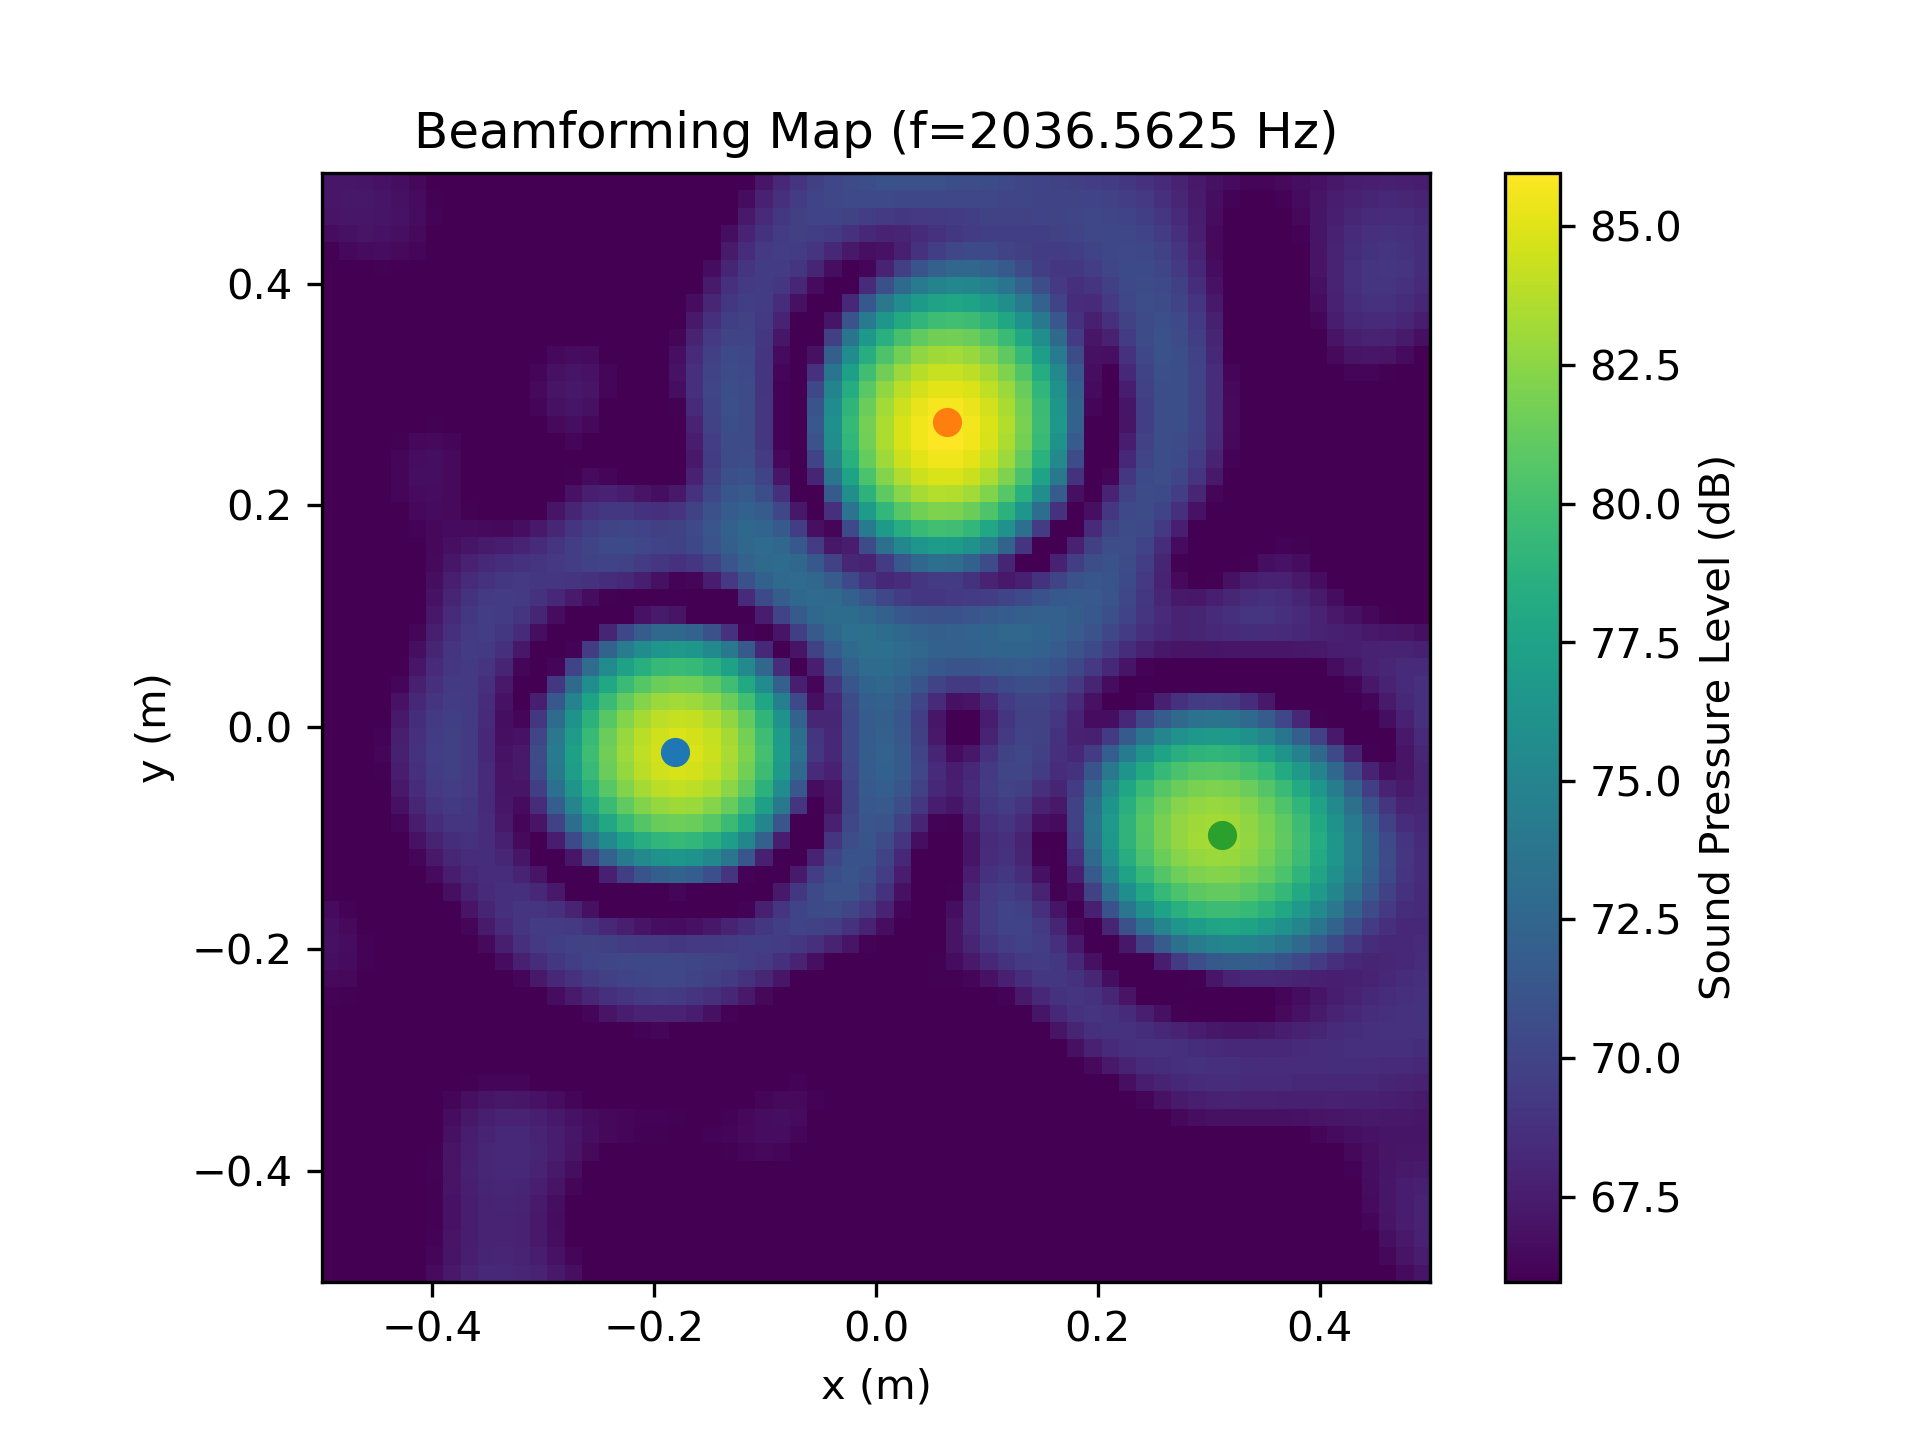
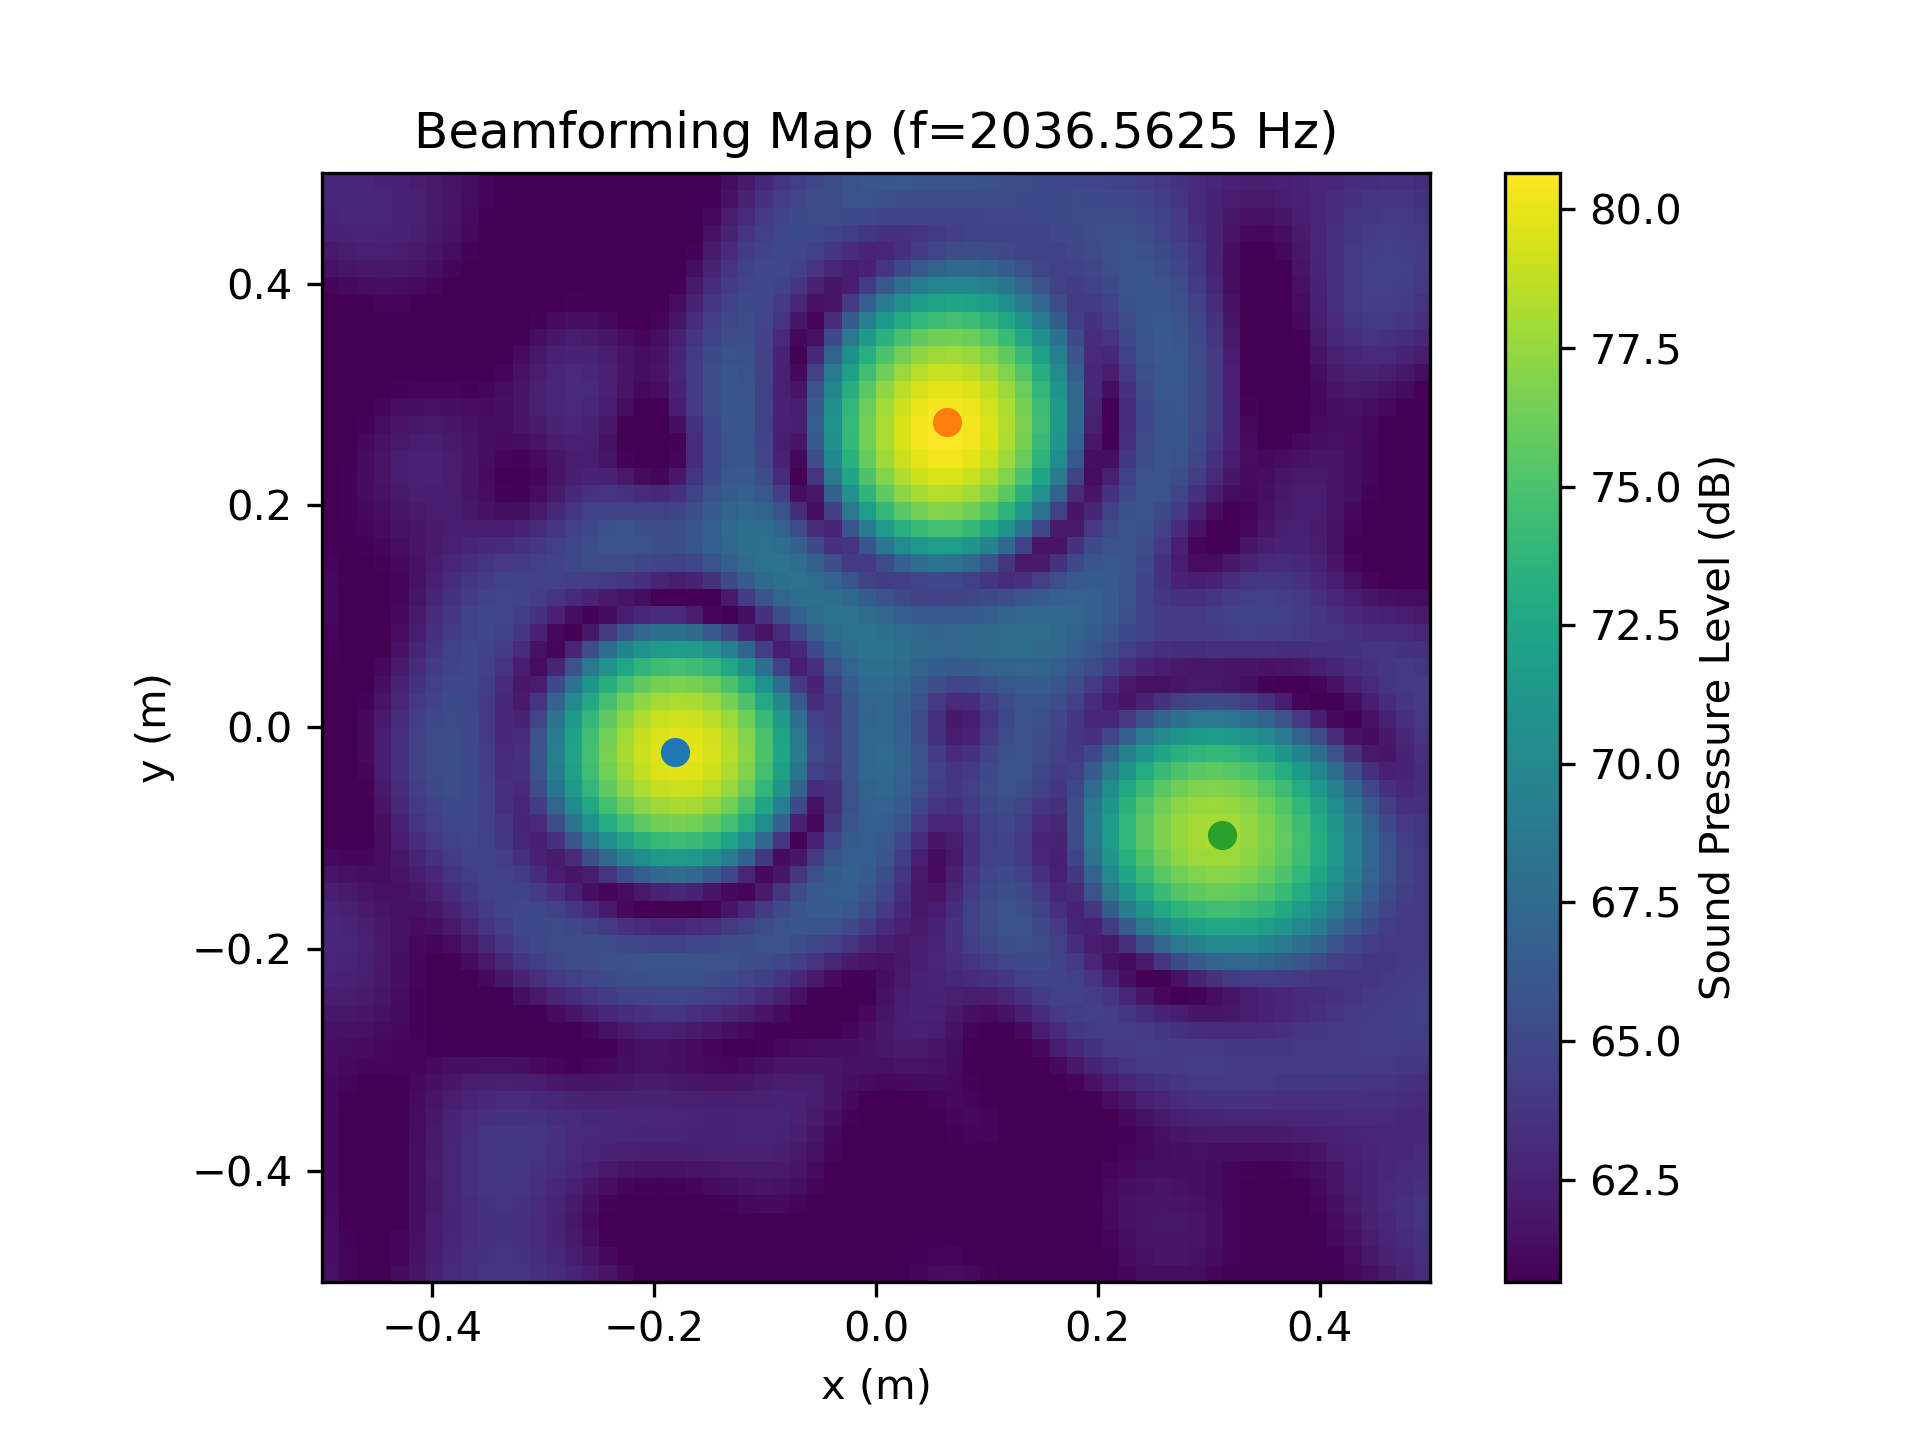
docs

diff --git a/src/acoupipe/datasets/synthetic.py b/src/acoupipe/datasets/synthetic.py
@@ -19,6 +19,7 @@ from functools import partial
 
 import acoular as ac
 import numpy as np
+import pyroomacoustics as pra
 from scipy.stats import norm, poisson
 from traits.api import Bool, Dict, Either, Enum, Float, Instance, Int, List, observe
 
@@ -957,6 +958,165 @@ class DatasetSyntheticFeatureCollectionBuilder(BaseFeatureCollectionBuilder):
                                             {"num" : "int64"})
 
 
+
+
+class DatasetSyntheticReverbConfig(DatasetSyntheticConfig):
+
+    # def create_sampler(self):
+    #     self.location_sampler = self.create_location_sampler()
+    #     self.signal_seed_sampler = self.create_signal_seed_sampler()
+    #     self.rms_sampler = self.create_rms_sampler()
+    #     self.nsources_sampler = self.create_nsources_sampler()
+    #     self.mic_noise_sampler = self.create_mic_noise_sampler()
+
+    # def get_sampler(self):
+    #     self.create_sampler()
+    #     sampler = {
+    #         2 : self.signal_seed_sampler,
+    #         3 : self.rms_sampler,
+    #         4 : self.location_sampler,
+    #         }
+
+    #     if self.max_nsources != self.min_nsources:
+    #         sampler[0] = self.nsources_sampler
+    #     if self.mic_sig_noise:
+    #         sampler[5] = self.mic_noise_sampler
+    #     return sampler
+
+    def create_sources(self):
+        sources = []
+        for signal in self.signals:
+            sources.append(
+                ac.PointSourceConvolve(
+                    signal=signal,
+                    mics=self.noisy_mics,
+                    env=self.env,
+                    )
+            )
+        return sources
+
+    @staticmethod
+    def get_rir(fs, locs, mics):
+        # The desired reverberation time and dimensions of the room
+
+        rt60 = .5  # seconds
+        room_dim = [7, 7, 3]  # meters
+        # We invert Sabine's formula to obtain the parameters for the ISM simulator
+        e_absorption, max_order = pra.inverse_sabine(rt60, room_dim)
+        # Create the room
+        room = pra.ShoeBox(
+            room_dim, fs=fs, materials=pra.Material(e_absorption), max_order=max_order,
+            use_rand_ism = False, max_rand_disp = 0.05
+        )
+        shift = np.array(room_dim)/2 # centering
+        for loc in locs.T:
+            room.add_source(loc+shift)
+        for mic in mics.T:
+            room.add_microphone(mic+shift)
+        room.compute_rir()
+        n = len(room.rir[0][0]) # length of the rir
+        rir_arr = np.zeros((locs.shape[1], mics.shape[1],n))
+        for j in range(locs.shape[1]):
+            for i in range(mics.shape[1]):
+                rir = np.array(room.rir[i][j])
+                ns = min(n, rir.shape[0])
+                rir_arr[j,i,:ns] = rir[:ns]
+        return rir_arr
+
+    @staticmethod
+    def calc_analytic_prepare_func(sampler, beamformer):
+
+        mic_pos_noise_sampler = sampler.get(1)
+        seed_sampler = sampler.get(2)
+        rms_sampler = sampler.get(3)
+        loc_sampler = sampler.get(4)
+        noise_sampler = sampler.get(5)
+        freq_data = beamformer.freq_data
+        nfft = freq_data.fftfreq().shape[0]
+        # sample parameters
+        loc = loc_sampler.target
+        all_loc = np.concatenate([loc, freq_data.steer.ref[:,np.newaxis]], axis=1)
+        nsources = loc.shape[1]
+
+        # creating the room
+        rir = DatasetSyntheticReverbConfig.get_rir(
+            freq_data.sample_freq, all_loc, mic_pos_noise_sampler.mpos_init)
+
+        # finding the SRIR matching the location
+        transfer = np.empty((nfft, beamformer.steer.mics.num_mics,nsources), dtype=complex)
+        for i in range(nsources):
+            tf = blockwise_transfer(rir[i], freq_data.block_size).T
+            # normalize the transfer functions to match the prms at reference mic
+            tf_pow = np.real(tf[:,-1]*tf[:,-1].conjugate()).sum(0) / nfft
+            tf = tf / np.sqrt(tf_pow)
+            transfer[:,:,i] = tf
+        # adjust freq_data
+        freq_data.custom_transfer = transfer
+        freq_data.steer.grid = ac.ImportGrid(gpos_file=loc) # set source locations
+        freq_data.seed=seed_sampler.target
+        # change source strength
+        prms_sq = rms_sampler.target[:nsources]**2 # squared sound pressure RMS at reference position
+        prms_sq_per_freq = prms_sq / nfft #prms_sq_per_freq
+        freq_data.Q = np.stack([np.diag(prms_sq_per_freq) for _ in range(nfft)], axis=0)
+        # add noise to freq_data
+        if noise_sampler is not None:
+            noise_signal_ratio = noise_sampler.target # normalized noise variance
+            noise_prms_sq = prms_sq.sum()*noise_signal_ratio
+            noise_prms_sq_per_freq = noise_prms_sq / nfft
+            nperf = np.diag(np.array([noise_prms_sq_per_freq]*beamformer.steer.mics.num_mics))
+            freq_data.noise = np.stack([nperf for _ in range(nfft)], axis=0)
+        else:
+            freq_data.noise = None
+        return {}
+
+    @staticmethod
+    def calc_welch_prepare_func(sampler, beamformer, sources, source_steer, fft_spectra, fft_obs_spectra, obs):
+        # restore sampler and acoular objects
+        mic_pos_noise_sampler = sampler.get(1)
+        seed_sampler = sampler.get(2)
+        rms_sampler = sampler.get(3)
+        loc_sampler = sampler.get(4)
+        noise_sampler = sampler.get(5)
+        freq_data = beamformer.freq_data
+        # sample parameters
+        loc = loc_sampler.target
+        np.concatenate([loc, beamformer.steer.ref[:,np.newaxis]], axis=1)
+        nsources = loc.shape[1]
+
+        # creating the room
+        rir = DatasetSyntheticReverbConfig.get_rir(
+            freq_data.sample_freq, loc, mic_pos_noise_sampler.mpos_init)
+
+        prms_sq = rms_sampler.target[:nsources]**2 # squared sound pressure RMS at reference position
+        # apply parameters
+        mic_noise = get_uncorrelated_noise_source_recursively(freq_data.source)
+        if mic_noise:
+            mic_noise_signal = mic_noise[0].signal
+            if noise_sampler is not None:
+                noise_signal_ratio = noise_sampler.target # normalized noise variance
+                noise_prms_sq = prms_sq.sum()*noise_signal_ratio
+                mic_noise_signal.rms = np.sqrt(noise_prms_sq)
+                mic_noise_signal.seed = seed_sampler.target+1000
+        subset_sources = sources[:nsources]
+        for i,src in enumerate(subset_sources):
+            kernel = rir[i].T
+            # normalize energy
+            kernel /=  np.sqrt(np.sum(kernel[:,-1]**2))
+            src.kernel = kernel
+            src.signal.seed = seed_sampler.target+i
+            src.signal.rms = np.sqrt(prms_sq[i])
+            src.loc = (loc[0,i],loc[1,i],loc[2,i] )
+        freq_data.source.sources = subset_sources # apply subset of sources
+        fft_spectra.source = freq_data.source # only for spectrogram feature
+        # update observation point
+        obs_sources = deepcopy(subset_sources)
+        for src in obs_sources:
+            src.mics = obs
+            src.kernel = src.kernel[:,-1][:,np.newaxis]
+        fft_obs_spectra.source = ac.SourceMixer(sources=obs_sources)
+        return {}
+
+
 class DatasetSyntheticTestConfig(DatasetSyntheticConfig):
 
     def create_mics(self):
@@ -970,6 +1130,19 @@ class DatasetSyntheticTestConfig(DatasetSyntheticConfig):
                                     z=0.5*ap, increment=1/5*ap)
 
 
+
+class DatasetSyntheticReverb(DatasetSynthetic):
+
+    def __init__(self, mode="welch", mic_pos_noise=True, mic_sig_noise=True,
+                snap_to_grid=False, signal_length=5, fs=13720., min_nsources=1,
+                max_nsources=10, tasks=1, logger=None, config=None):
+        if config is None:
+            config = DatasetSyntheticReverbConfig(
+                mode=mode, signal_length=signal_length, fs=fs,
+                min_nsources=min_nsources, max_nsources=max_nsources,
+                mic_pos_noise=mic_pos_noise, mic_sig_noise=mic_sig_noise,
+                snap_to_grid=snap_to_grid)
+        super().__init__(tasks=tasks, logger=logger, config=config)
 
 
 

diff --git a/docs/source/contents/script/reverb.py b/docs/source/contents/script/reverb.py
@@ -1,0 +1,41 @@
+
+#%%
+from acoupipe.datasets.synthetic import DatasetSyntheticReverb
+
+dataset = DatasetSyntheticReverb(mode="wishart")
+# generate data for frequency 2000 Hz (single frequency)
+data_generator = dataset.generate(features=["sourcemap","loc", "f", "source_strength_estimated"],
+                                    split="training", size=10, f=[2000], num=0)
+data_sample = next(data_generator)
+
+#%%
+
+import acoular as ac
+import matplotlib.pyplot as plt
+
+extent = dataset.config.grid.extend()
+
+# sound pressure level
+Lm = ac.L_p(data_sample["sourcemap"]).T
+Lm_max = Lm.max()
+Lm_min = Lm.max() - 20
+
+# plot sourcemap
+fig = plt.figure()
+plt.title(f'Beamforming Map (f={data_sample["f"][0]} Hz)')
+plt.imshow(Lm, vmax=Lm_max, vmin=Lm_min, extent=extent, origin="lower")
+plt.colorbar(label="Sound Pressure Level (dB)")
+# plot source locations
+for loc in data_sample["loc"].T:
+    plt.scatter(loc[0], loc[1])
+plt.xlabel("x (m)")
+plt.ylabel("y (m)")
+#%%
+from pathlib import Path
+
+dpath = Path(__file__).parent.parent.parent / "_static"
+fig.savefig(dpath / "reverb_sourcemap.png", dpi=300)
+
+
+
+# %%
